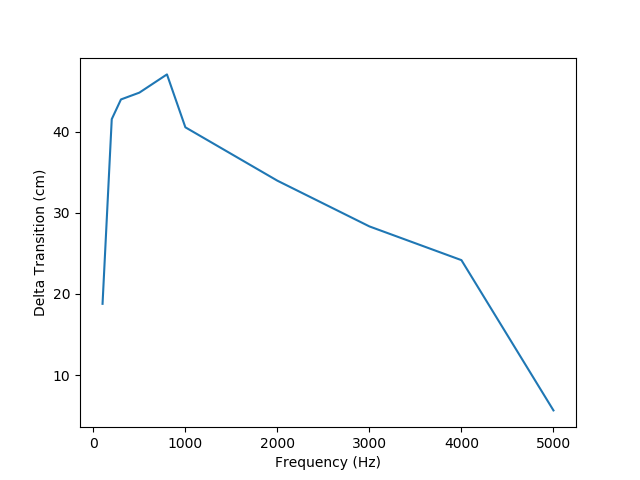
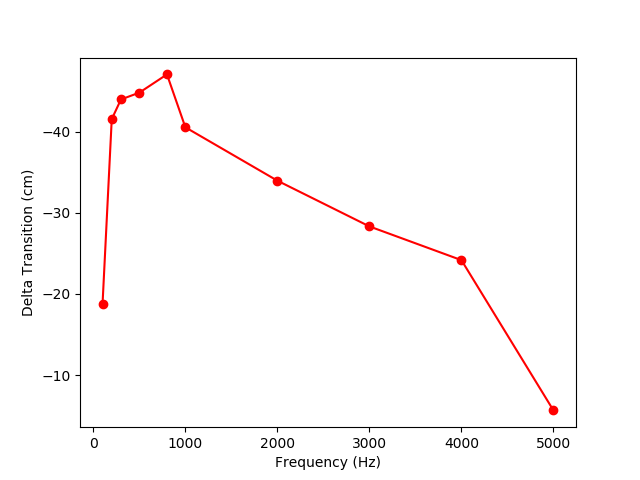
Created Refined Plot Results

diff --git a/Refined/Coding for project.py b/Refined/Coding for project.py
@@ -305,9 +305,9 @@ def main():
     
     
     #Change PA1 as a string to PA2 or PA3 to look at those instead
-    ThisPA = 'PA3' 
-    currentInfo = info3
-    Together = True
+    ThisPA = 'PA2' 
+    currentInfo = info2
+    Together = False
 
     pictureArray = FileToArray(ReadData(ThisPA))
 
@@ -398,48 +398,58 @@ def main():
 
     #Seperate pictures
     else: 
-        plt.plot(frequency4,delta4)
+        plt.plot(frequency4,delta4,'ro')
+        plt.plot(frequency4,delta4,'r')
         plt.xlabel('Frequency (Hz)')
         plt.ylabel('Delta Transition (cm)')
-        plt.title('Voltage = 4kV')
+        #plt.title('Voltage = 4kV')
         plt.gca().invert_yaxis()
-        #plt.savefig(ThisPA + '_4')
-        plt.show()
+        plt.savefig(ThisPA + '_4')
+        plt.close()
+        #plt.show()
         #plt.clf()
         
-        plt.plot(frequency6,delta6)
+        plt.plot(frequency6,delta6,'ro')
+        plt.plot(frequency6,delta6,'r')
         plt.xlabel('Frequency (Hz)')
         plt.ylabel('Delta Transition (cm)')
-        plt.title('Voltage = 6kV')
+        #plt.title('Voltage = 6kV')
         plt.gca().invert_yaxis()
-        #plt.savefig(ThisPA + '_6')
-        plt.show()
+        plt.savefig(ThisPA + '_6')
+        plt.close()
+        #plt.show()
         #plt.clf()
         
-        plt.plot(frequency8,delta8)
+        plt.plot(frequency8,delta8, 'ro')
+        plt.plot(frequency8,delta8, 'r')
         plt.xlabel('Frequency (Hz)')
         plt.ylabel('Delta Transition (cm)')
-        plt.title('Voltage = 8kV')
+        #plt.title('Voltage = 8kV')
         plt.gca().invert_yaxis()
-        #plt.savefig(ThisPA + '_8')
-        plt.show()
+        plt.savefig(ThisPA + '_8')
+        plt.close()
+        #plt.show()
         #plt.clf()
     
     
-        plt.plot(frequency10,delta10)
+        plt.plot(frequency10,delta10,'ro')
+        plt.plot(frequency10,delta10,'r')
         plt.xlabel('Frequency (Hz)')
         plt.ylabel('Delta Transition (cm)')
-        plt.title('Voltage = 10kV')
+        #plt.title('Voltage = 10kV')
         plt.gca().invert_yaxis()
-        #plt.savefig(ThisPA + '_10')
-        plt.show()
+        plt.savefig(ThisPA + '_10')
+        plt.close()
+        #plt.show()
         #plt.clf()
         
         
-        plt.plot(frequency12,delta12)
+        plt.plot(frequency12,delta12,'ro')
+        plt.plot(frequency12,delta12,'r')
         plt.xlabel('Frequency (Hz)')
         plt.ylabel('Delta Transition (cm)')
         #plt.title('Voltage = 12V')
+        plt.gca().invert_yaxis()
         plt.savefig(ThisPA + '_12')
         plt.close()
         
